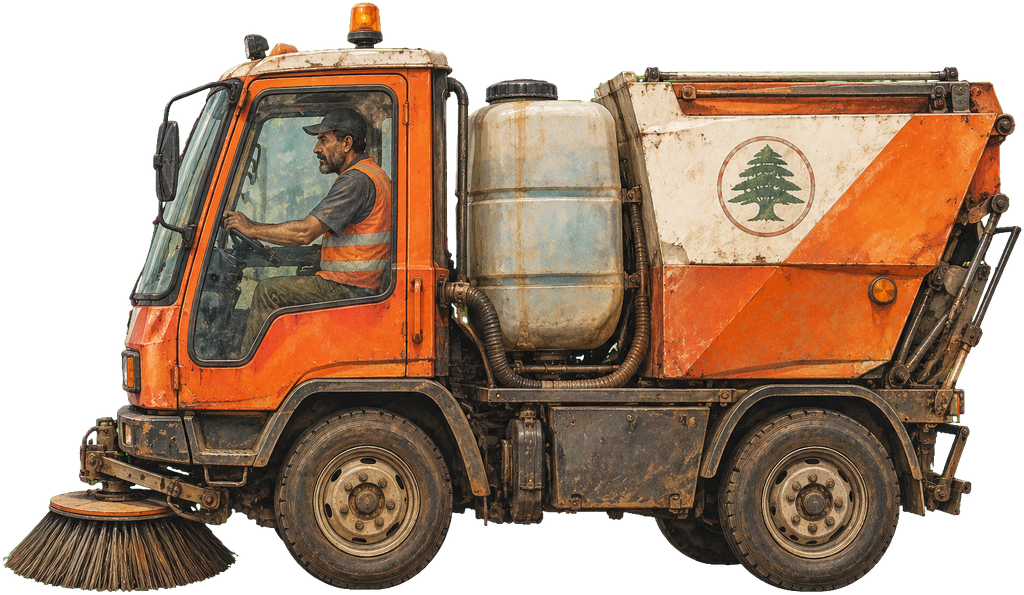
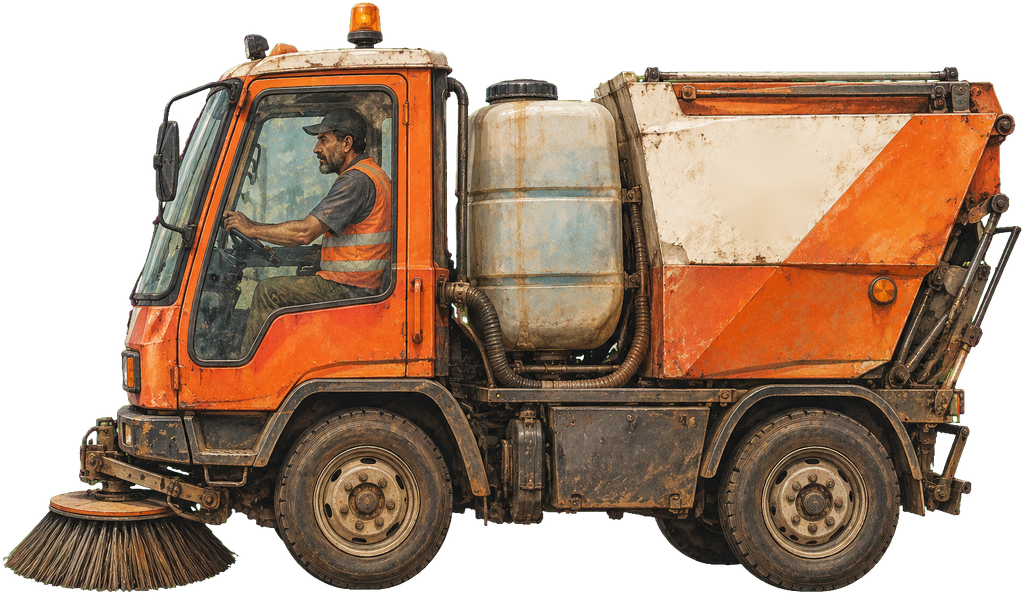
Sweeper: Lebanese cedar emblem painted out; prompt says no emblem
Claude-Session: https://claude.ai/code/session_01NK9iDXTyx3wBvzPstrXWEG

Changed region(s): [[0.6875, 0.2118, 0.8125, 0.3933]]

diff --git a/docs/ART_SPEC.fa.md b/docs/ART_SPEC.fa.md
@@ -462,7 +462,7 @@ Stability ~۴۰. هر خط یک فایل → `Audio/Heroes/<id>/kick_01..03`. م
 
 ## کبوترِ زدهشده و ماشینِ جاروی شهرداری (۱۹ آبان)
 کاربر: «وقتی توپ میخوره به پرنده باید یه صدایی داشته باشه … خونش ریخته بشه و بعدش ماشین تمیزکن شهرداری بیاد و جارو کنه و جنازه پرنده رو برداره». خون و صحنه در کد است (`DuelStage.PigeonCorpse`)؛ تا تصویر نرسد کبوتر فقط محو میشود.
-- `Props/sweeper.png` (نمای جانبی، رو به چپ، رویِ سبزِ #00FF00): `Cut-out for a game, side view facing left, on a flat solid bright green background #00FF00, no ground, no shadow, no scene. Painted in the same realistic hand-painted style as a weathered Beirut street painting. A small old municipal street-sweeper truck, dusty orange and white with a faded city emblem, an operator in an orange vest visible in the cab, a round rotating side brush under the front bumper, a water tank and a hopper behind. Whole vehicle visible, wheels included. No text, no watermark.`
+- `Props/sweeper.png` (نمای جانبی، رو به چپ، رویِ سبزِ #00FF00): `Cut-out for a game, side view facing left, on a flat solid bright green background #00FF00, no ground, no shadow, no scene. Painted in the same realistic hand-painted style as a weathered Beirut street painting. A small old municipal street-sweeper truck, dusty orange and white with no emblem, flag or logo of any kind, an operator in an orange vest visible in the cab, a round rotating side brush under the front bumper, a water tank and a hopper behind. Whole vehicle visible, wheels included. No text, no watermark.`
 - `Props/sweeper_brush.png` (اختیاری، برایِ چرخیدن): `Same style, on green #00FF00: only the round street-sweeper side brush seen from the side, a disc of stiff dark bristles with a metal hub, flat and centred, nothing else.`
 - `Audio/Fx/pigeon_01..02` (ElevenLabs Sound Effects، ~۱ ثانیه): `A pigeon hit by a football mid-air: a sharp startled coo-squawk, a burst of wing flaps and a soft thud on asphalt, 1 second, no music.`
 

diff --git a/docs/CHANGELOG.fa.md b/docs/CHANGELOG.fa.md
@@ -99,3 +99,4 @@
 - (۲۱ آبان) فحشها دوباره ضبط شدند (ElevenLabs v3، Ahmed و Tara) با متنِ تازهی `ART_SPEC` و بینامِ خدا: مرد ۱، ۲، ۴، ۶، ۷، ۱۰ → `curse_m_01..06`، زن ۳، ۵، ۸، ۹ → `curse_f_01..04`؛ فایلهای قبلی همه رفتند.
 - (۲۱ آبان) سه خطِ دیگر بینامِ خدا دوباره ضبط شد: ابوشحاطه `kick_02` («يا عيني شوف!»)، زعتر `kick_01` («يلّا يا شباب!») و قربانیِ زن `victim_02` («آآآي! يا ويلي! شو صار؟!»).
 - (۲۱ آبان، پ۲۵) اعلانِ محلیِ «كيسك جاهز!»: وقتی بازی بسته است و کیسهای باز میشود، خودِ گوشی خبر میدهد (بستهی رایگانِ `com.unity.mobile.notifications`، بیسرور). حداکثر یکی در روز، هرگز ۲۳ تا ۹ تهران (`Core/Bags/BagNotice.cs` + تست)، با برگشتن به بازی لغو میشود. کلیدِ «تنبيه: أيوه/لأ» کنارِ «هزّة» در خانه. اجازهی اندروید ۱۳ وقتی اولین کیسه شروع به باز شدن میکند پرسیده میشود. کدِ اندروید در اسمبلیِ جدا (`Scripts/Notifications`، فقط اندروید) تا ادیتور، اسکرینشاتِ CI و کامپایلچکِ محلی به بسته نیاز نداشته باشند.
+- (۲۱ آبان) کاربر: «لوگوی کشور لبنان از روی ماشین زباله شهرداری برداشته بشه» -- سروِ داخلِ دایره از بدنهی `Props/sweeper.png` پاک شد (inpaint)؛ پرامپتِ ART_SPEC حالا صریحاً «بینشان، پرچم و لوگو» میگوید (همان قاعدهی STORE_RISK: هیچ نمادِ کشوری/سازمانیِ واقعی).
